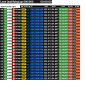
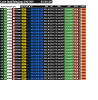
Added interval column to Standings. Increased maximum width.

diff --git a/Plugin/SettingsControl.xaml b/Plugin/SettingsControl.xaml
@@ -220,7 +220,14 @@
                                 ToolTip="Driver's gap to the race leader in seconds or laps" 
                                 HorizontalAlignment="Left" Margin="0,0,4,8"
                                 IsChecked="{Binding Plugin.Modules[StandingsModule].Settings.GapVisibleInRace, Mode=TwoWay, UpdateSourceTrigger=PropertyChanged}">
-                                Gap to Leader
+                                Gap
+                            </styles:SHToggleCheckbox>
+
+                            <styles:SHToggleCheckbox 
+                                ToolTip="Driver's gap to their opponent ahead in seconds or laps" 
+                                HorizontalAlignment="Left" Margin="0,0,4,8"
+                                IsChecked="{Binding Plugin.Modules[StandingsModule].Settings.IntervalVisibleInRace, Mode=TwoWay, UpdateSourceTrigger=PropertyChanged}">
+                                Interval
                             </styles:SHToggleCheckbox>
 
                             <styles:SHToggleCheckbox 
@@ -261,7 +268,15 @@
                                 ToolTip="Driver's gap to the race leader in seconds or laps" 
                                 HorizontalAlignment="Left" Margin="0,0,4,8"
                                 IsChecked="False">
-                                Gap to Leader
+                                Gap
+                            </styles:SHToggleCheckbox>
+
+                            <styles:SHToggleCheckbox 
+                                IsEnabled="False"
+                                ToolTip="Driver's gap to their opponent ahead in seconds or laps" 
+                                HorizontalAlignment="Left" Margin="0,0,4,8"
+                                IsChecked="False">
+                                Interval
                             </styles:SHToggleCheckbox>
 
                             <styles:SHToggleCheckbox 
@@ -305,7 +320,7 @@
                         </StackPanel>
 
                         <StackPanel Orientation="Horizontal">
-                            <ui:TitledSlider Width="400" Title="Width" Maximum="600" Minimum="250" Value="{Binding Plugin.Modules[StandingsModule].Settings.WidthPixels, Mode=TwoWay, UpdateSourceTrigger=PropertyChanged}" 
+                            <ui:TitledSlider Width="400" Title="Width" Maximum="680" Minimum="250" Value="{Binding Plugin.Modules[StandingsModule].Settings.WidthPixels, Mode=TwoWay, UpdateSourceTrigger=PropertyChanged}" 
                                              ToolTip="Minimum width of the overlay in pixels. Actual width might be larger if selected data fields don't fit."/>
                             <ui:TitledSlider Width="400" Title="Background Opacity (%)" Maximum="100" Minimum="0" Value="{Binding Plugin.Modules[StandingsModule].Settings.BackgroundOpacity, Mode=TwoWay, UpdateSourceTrigger=PropertyChanged}" />
                         </StackPanel>

diff --git a/Plugin/Modules/Standings.cs b/Plugin/Modules/Standings.cs
@@ -43,6 +43,7 @@ namespace benofficial2.Plugin
         public bool IRatingChangeVisible { get; set; } = true;
         public bool CarLogoVisibleInRace { get; set; } = true;
         public bool GapVisibleInRace { get; set; } = true;
+        public bool IntervalVisibleInRace { get; set; } = false;
         public bool BestVisibleInRace { get; set; } = false;
         public bool LastVisibleInRace { get; set; } = true;
         public bool DeltaVisibleInRace { get; set; } = true;
@@ -89,6 +90,8 @@ namespace benofficial2.Plugin
         public int StintLap { get; set; } = 0;
         public int LapsToClassLeader { get; set; } = 0;
         public double GapToClassLeader { get; set; } = 0;
+        public int LapsToClassOpponentAhead { get; set; } = 0;
+        public double GapToClassOpponentAhead { get; set; } = 0.0;
         public TimeSpan? DeltaToClassLeader { get; set; } = null;
         public TimeSpan? DeltaToPlayer { get; set; } = null;
         public string TireCompound {  get; set; } = string.Empty;
@@ -160,6 +163,7 @@ namespace benofficial2.Plugin
         public int HighlightedCarClassIdx { get; internal set; } = 0;
         public bool CarLogoVisible { get; internal set; } = true;
         public bool GapVisible { get; internal set; } = true;
+        public bool IntervalVisible { get; internal set; } = true;
         public bool BestVisible { get; internal set; } = true;
         public bool LastVisible { get; internal set; } = true;
         public bool DeltaVisible { get; internal set; } = true;
@@ -205,6 +209,7 @@ namespace benofficial2.Plugin
             plugin.AttachDelegate(name: $"Standings.iRatingVisible", valueProvider: () => Settings.IRatingVisible);
             plugin.AttachDelegate(name: $"Standings.iRatingChangeVisible", valueProvider: () => Settings.IRatingChangeVisible);
             plugin.AttachDelegate(name: $"Standings.GapVisible", valueProvider: () => GapVisible);
+            plugin.AttachDelegate(name: $"Standings.IntervalVisible", valueProvider: () => IntervalVisible);
             plugin.AttachDelegate(name: $"Standings.BestVisible", valueProvider: () => BestVisible);
             plugin.AttachDelegate(name: $"Standings.LastVisible", valueProvider: () => LastVisible);
             plugin.AttachDelegate(name: $"Standings.DeltaVisible", valueProvider: () => DeltaVisible);
@@ -258,6 +263,8 @@ namespace benofficial2.Plugin
                     plugin.AttachDelegate(name: $"Standings.Class{carClassIdx:00}.Row{rowIdx:00}.StintLap", valueProvider: () => row.StintLap);
                     plugin.AttachDelegate(name: $"Standings.Class{carClassIdx:00}.Row{rowIdx:00}.LapsToClassLeader", valueProvider: () => row.LapsToClassLeader);
                     plugin.AttachDelegate(name: $"Standings.Class{carClassIdx:00}.Row{rowIdx:00}.GapToClassLeader", valueProvider: () => row.GapToClassLeader);
+                    plugin.AttachDelegate(name: $"Standings.Class{carClassIdx:00}.Row{rowIdx:00}.LapsToClassOpponentAhead", valueProvider: () => row.LapsToClassOpponentAhead);
+                    plugin.AttachDelegate(name: $"Standings.Class{carClassIdx:00}.Row{rowIdx:00}.GapToClassOpponentAhead", valueProvider: () => row.GapToClassOpponentAhead);
                     plugin.AttachDelegate(name: $"Standings.Class{carClassIdx:00}.Row{rowIdx:00}.DeltaToClassLeader", valueProvider: () => row.DeltaToClassLeader);
                     plugin.AttachDelegate(name: $"Standings.Class{carClassIdx:00}.Row{rowIdx:00}.DeltaToPlayer", valueProvider: () => row.DeltaToPlayer);
                     plugin.AttachDelegate(name: $"Standings.Class{carClassIdx:00}.Row{rowIdx:00}.TireCompound", valueProvider: () => row.TireCompound);
@@ -287,6 +294,7 @@ namespace benofficial2.Plugin
             {
                 CarLogoVisible = Settings.CarLogoVisibleInRace;
                 GapVisible = Settings.GapVisibleInRace;
+                IntervalVisible = Settings.IntervalVisibleInRace;
                 BestVisible = Settings.BestVisibleInRace;
                 LastVisible = Settings.LastVisibleInRace;
                 DeltaVisible = Settings.DeltaVisibleInRace;
@@ -295,6 +303,7 @@ namespace benofficial2.Plugin
             {
                 CarLogoVisible = Settings.CarLogoVisible;
                 GapVisible = false;
+                IntervalVisible = false;
                 BestVisible = Settings.BestVisible;
                 LastVisible = Settings.LastVisible;
                 DeltaVisible = Settings.DeltaVisible;
@@ -434,6 +443,8 @@ namespace benofficial2.Plugin
                         row.StintLap = driver.StintLap;
                         row.LapsToClassLeader = driver.LapsToClassLeader;
                         row.GapToClassLeader = driver.GapToClassLeader;
+                        row.LapsToClassOpponentAhead = driver.LapsToClassOpponentAhead;
+                        row.GapToClassOpponentAhead = driver.GapToClassOpponentAhead;
                         row.TireCompound = _carModule.GetTireCompoundLetter(driver.TireCompoundIdx);
                         row.TireCompoundVisible = row.TireCompound.Length > 0;
                         row.BestLapTime = driver.BestLapTime;
@@ -576,6 +587,8 @@ namespace benofficial2.Plugin
             row.StintLap = 0;
             row.LapsToClassLeader = 0;
             row.GapToClassLeader = 0;
+            row.LapsToClassOpponentAhead = 0;
+            row.GapToClassOpponentAhead = 0;
             row.DeltaToClassLeader = null;
             row.DeltaToPlayer = null;
             row.TireCompound = string.Empty;
@@ -728,12 +741,15 @@ namespace benofficial2.Plugin
                     continue;
 
                 Driver classLeader = leaderboard.Drivers[0];
+                Driver driverAhead = null;
                 foreach (var driver in leaderboard.Drivers)
                 {
                     if (driver.CarIdx == classLeader.CarIdx)
                     {
                         driver.LapsToClassLeader = 0;
                         driver.GapToClassLeader = 0.0;
+                        driver.LapsToClassOpponentAhead = 0;
+                        driver.GapToClassOpponentAhead = 0.0;
                     }
                     else
                     {
@@ -747,7 +763,27 @@ namespace benofficial2.Plugin
                         {
                             driver.GapToClassLeader = GapToCarAhead(driver, classLeader);
                         }
+
+                        if (driverAhead != null)
+                        {
+                            driver.LapsToClassOpponentAhead = Math.Max(0, (int)Math.Floor(driverAhead.CurrentLapHighPrecision - driver.CurrentLapHighPrecision));
+                            if (driver.LapsToClassOpponentAhead > 0)
+                            {
+                                driver.GapToClassOpponentAhead = 0.0;
+                            }
+                            else
+                            {
+                                driver.GapToClassOpponentAhead = GapToCarAhead(driver, driverAhead);
+                            }
+                        }
+                        else
+                        {
+                            driver.LapsToClassOpponentAhead = 0;
+                            driver.GapToClassOpponentAhead = 0.0;
+                        }
                     }
+
+                    driverAhead = driver;
                 }
             }
         }

diff --git a/Plugin/Modules/Driver.cs b/Plugin/Modules/Driver.cs
@@ -151,6 +151,8 @@ namespace benofficial2.Plugin
         public double SafetyRating { get; set; } = 0.0;
         public int LapsToClassLeader { get; set; } = 0;
         public double GapToClassLeader { get; set; } = 0.0;
+        public int LapsToClassOpponentAhead { get; set; } = 0;
+        public double GapToClassOpponentAhead { get; set; } = 0.0;
         public double RelativeGapToPlayer { get; set; } = 0.0;
         public double EstTime { get; set; } = 0.0;
         public int TireCompoundIdx { get; set; } = -1;
